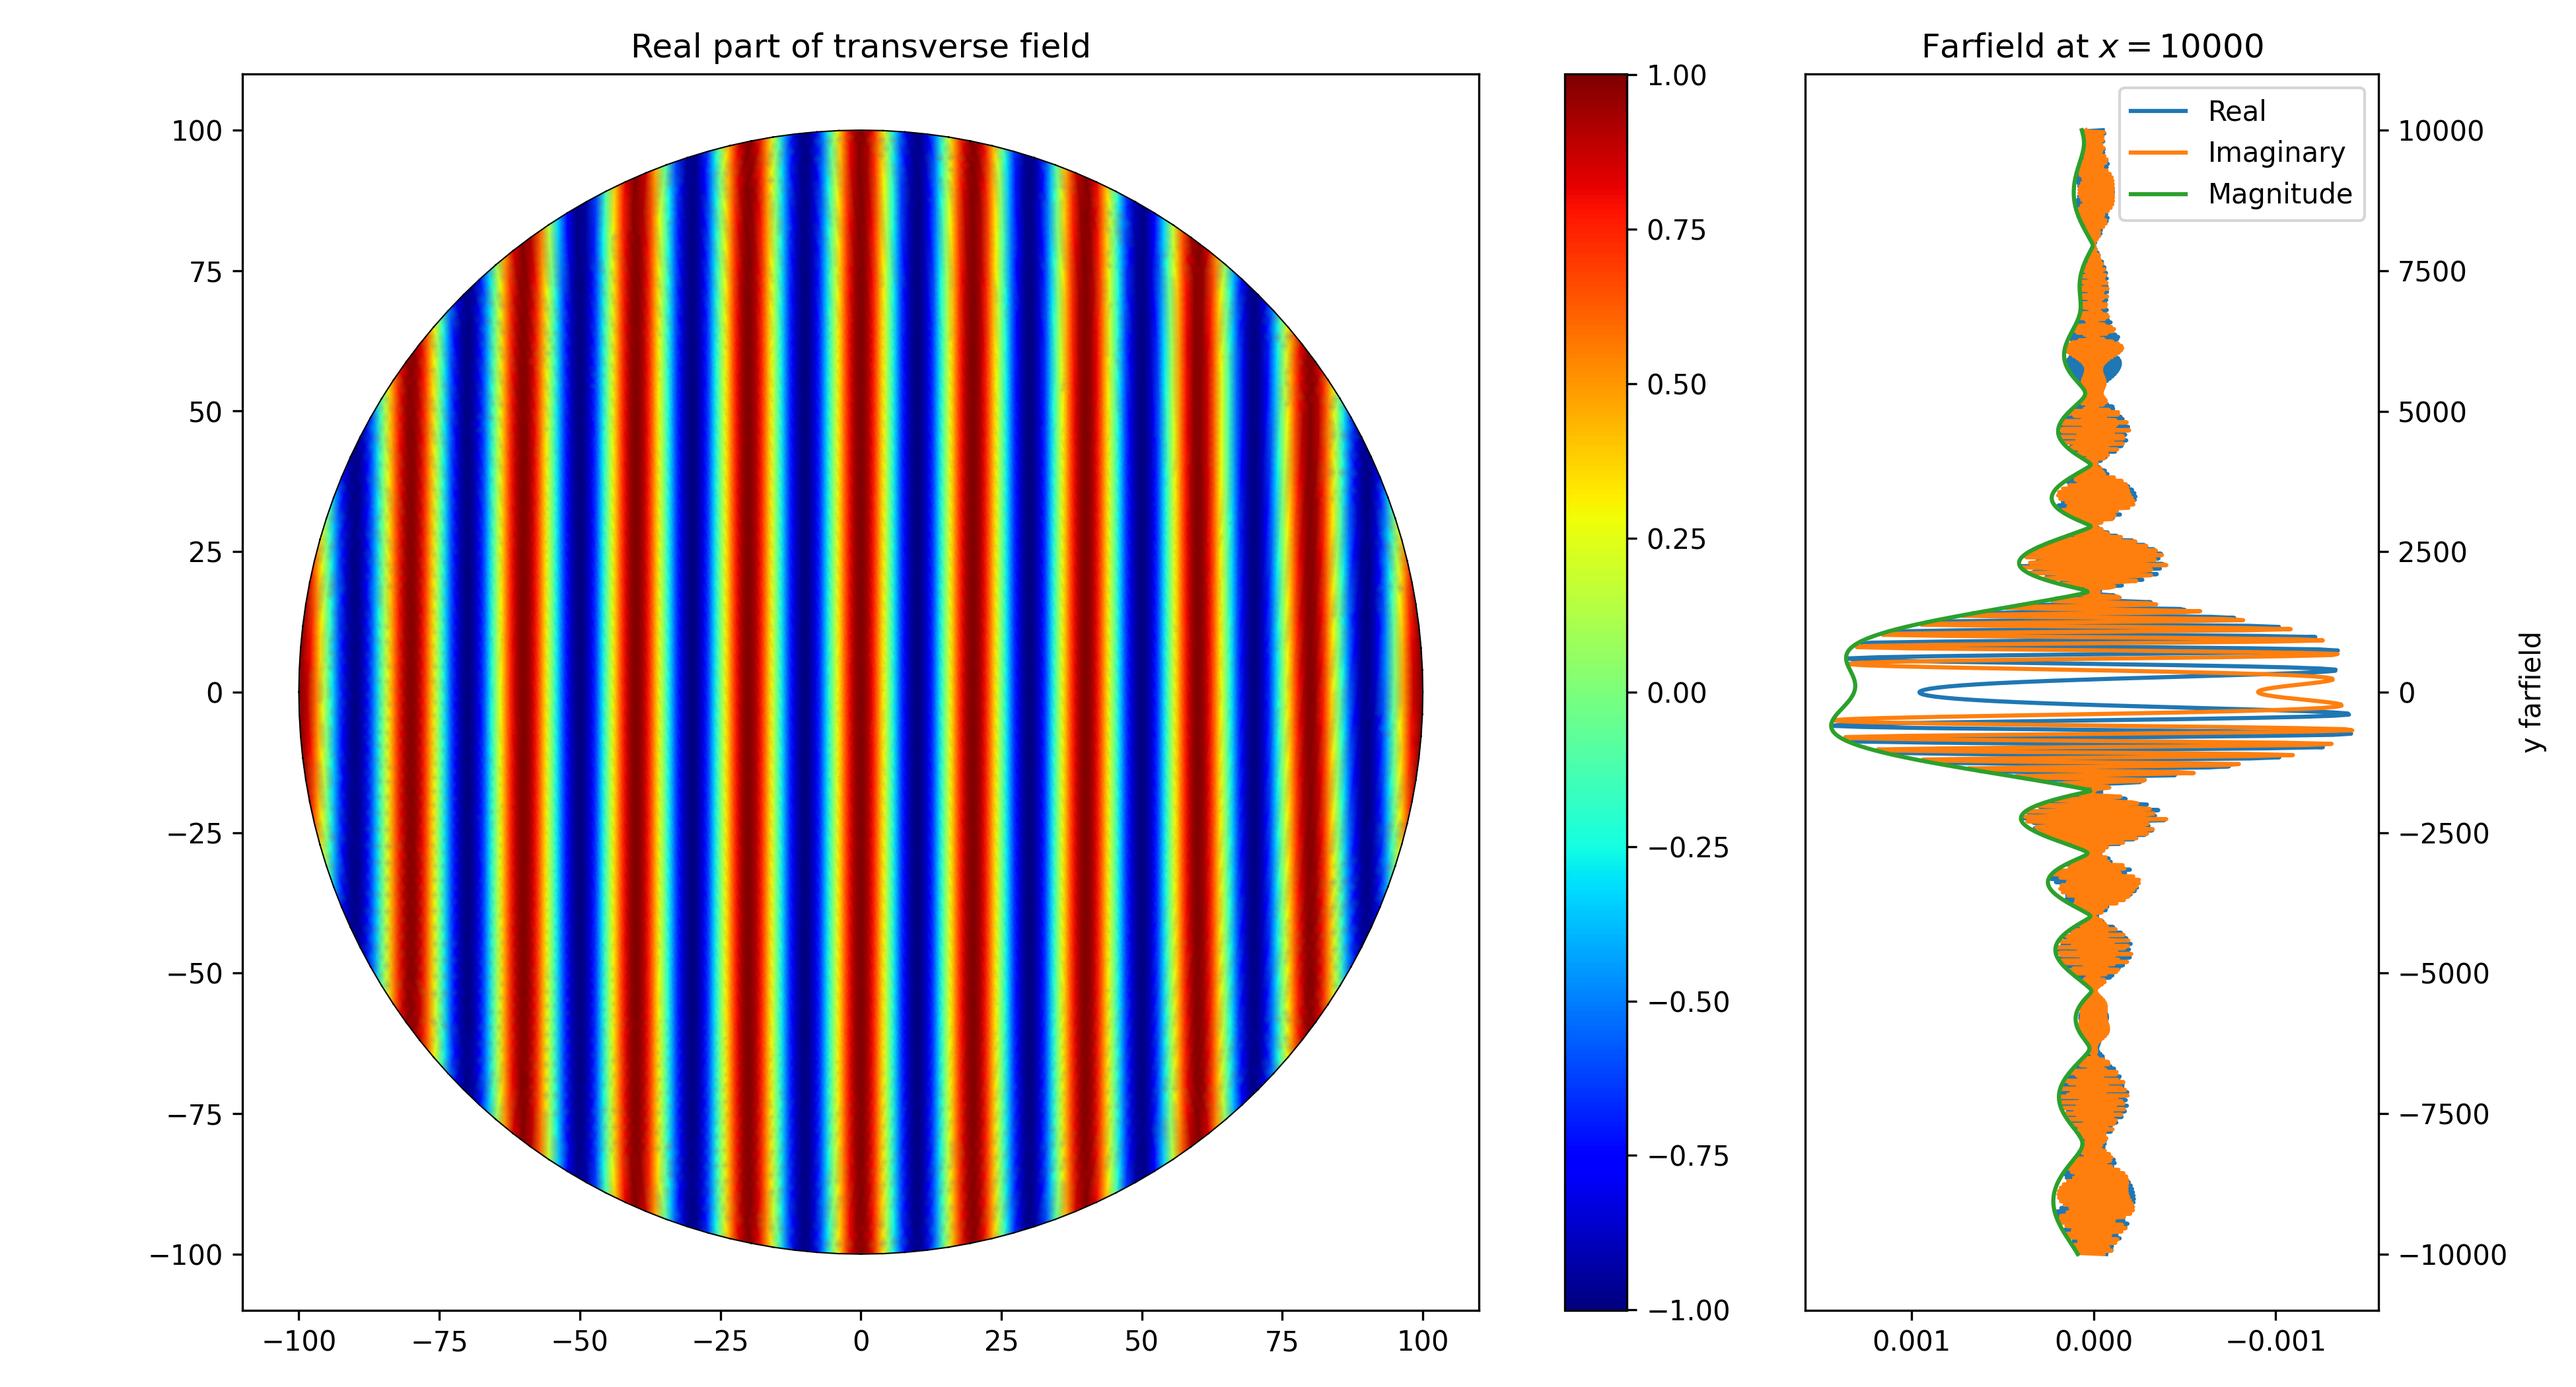
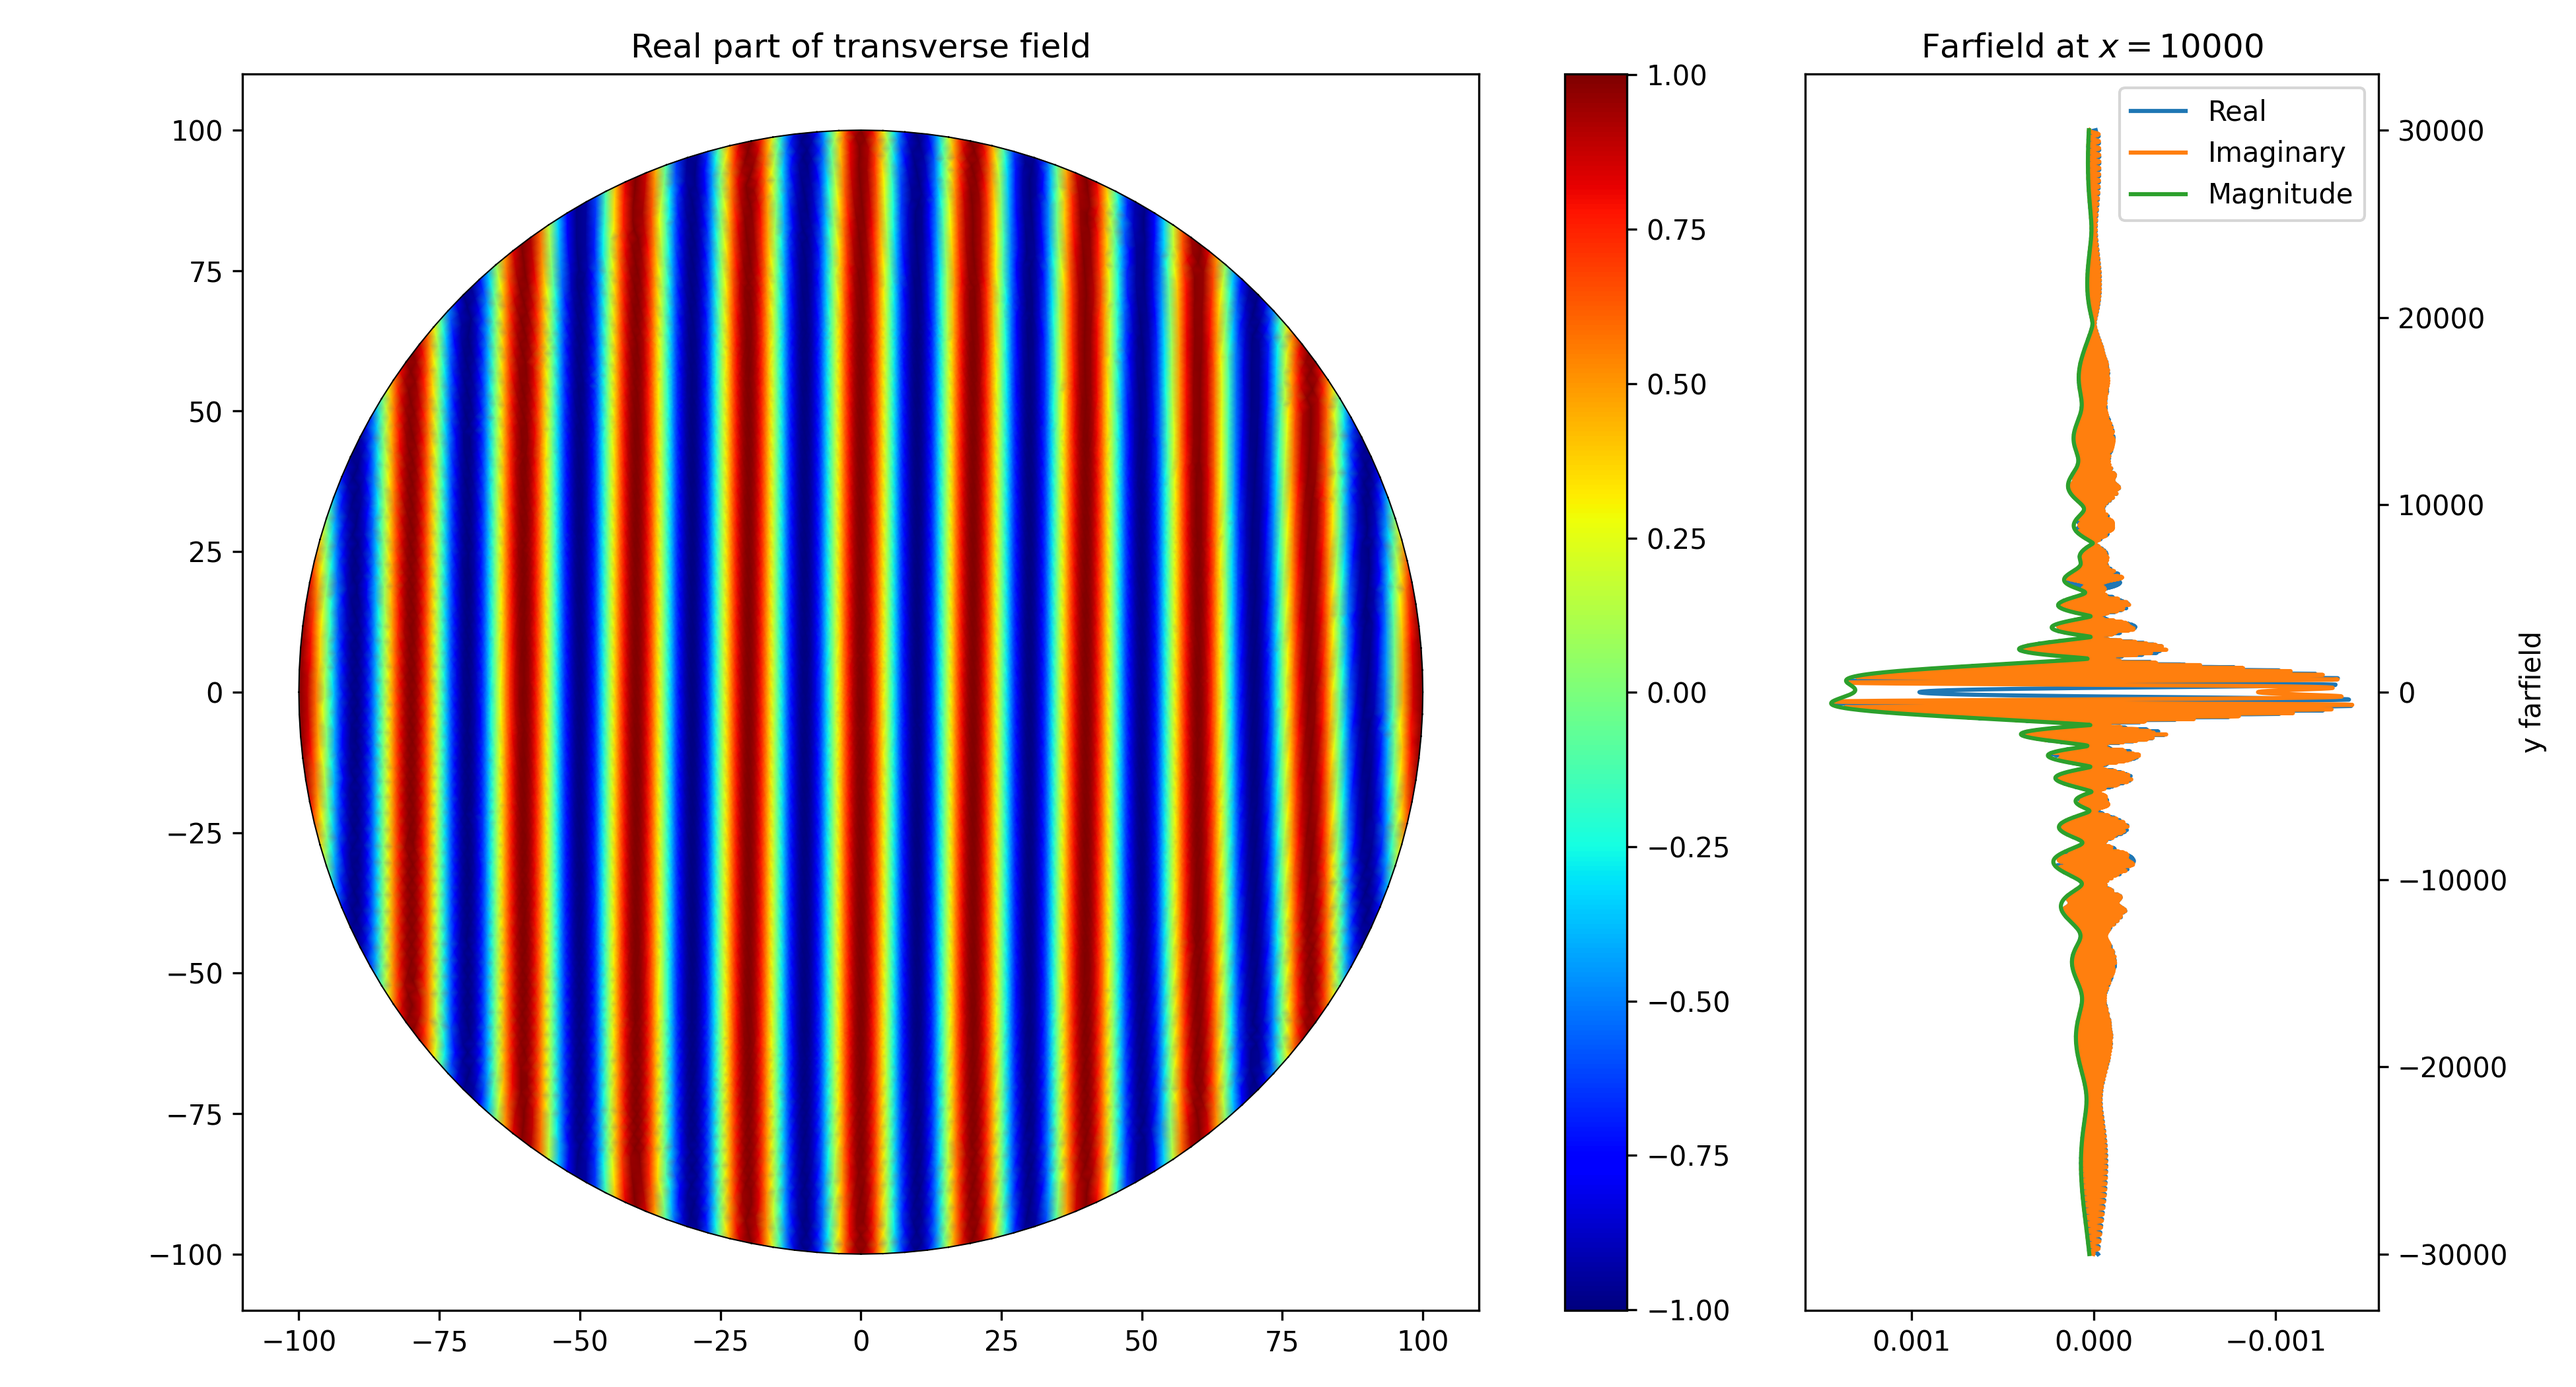
Increased farfield span

diff --git a/examples/dielectric_scatterer/scatterer_fem.py b/examples/dielectric_scatterer/scatterer_fem.py
@@ -93,7 +93,7 @@ print(f'Solving took {t2 - t1:.3f} s\n')
 print('near2far()')
 t1 = timer()
 x_farfield = 10000
-y_farfield = np.linspace(-10000, 10000, 1001)
+y_farfield = np.linspace(-30000, 30000, 3001)
 phi_farfield = np.zeros_like(y_farfield, dtype=complex)
 for i in range(len(y_farfield)):
     phi_farfield[i] = fem.near2far(r=(x_farfield, y_farfield[i]), k=k0, field=fem.phi, boundaries=['bound'])
